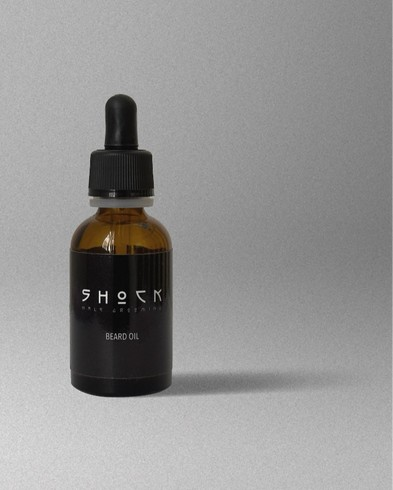
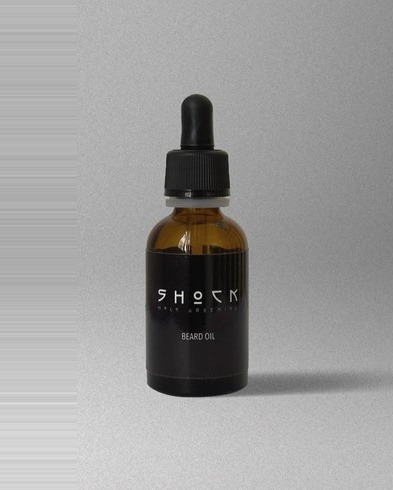
Centra orizzontalmente i prodotti nella sezione SHOCK
Le foto di beard-oil, curl-design e powder avevano il prodotto
spostato a sinistra (centro orizzontale ~0.31). Ricentrate tutte le
immagini sul centro, riempiendo lo spazio con lo sfondo grigio
esistente per evitare bordi bianchi. Aggiornato cache-buster a v=3.

https://claude.ai/code/session_01XW7sYUd67nkV3eiHzqeqDH

diff --git a/index.html b/index.html
@@ -219,22 +219,22 @@
       </div>
       <div class="product-grid">
         <a class="product-card reveal" href="https://shockmalegrooming.com/products/shock-beard-oil" target="_blank" rel="noopener">
-          <img class="product-img" src="assets/products/beard-oil.jpg?v=2" alt="SHOCK Beard Oil" loading="lazy" /><h3>Beard Oil</h3><p>Olio nutriente per barba</p><span class="product-cta">Acquista · €19 →</span>
+          <img class="product-img" src="assets/products/beard-oil.jpg?v=3" alt="SHOCK Beard Oil" loading="lazy" /><h3>Beard Oil</h3><p>Olio nutriente per barba</p><span class="product-cta">Acquista · €19 →</span>
         </a>
         <a class="product-card reveal" href="https://shockmalegrooming.com/products/shock%E2%84%A2-matt-paste" target="_blank" rel="noopener">
-          <img class="product-img" src="assets/products/matt-paste.jpg?v=2" alt="SHOCK Matt Paste" loading="lazy" /><h3>Matt Paste</h3><p>Pasta opaca, tenuta media</p><span class="product-cta">Acquista · €19 →</span>
+          <img class="product-img" src="assets/products/matt-paste.jpg?v=3" alt="SHOCK Matt Paste" loading="lazy" /><h3>Matt Paste</h3><p>Pasta opaca, tenuta media</p><span class="product-cta">Acquista · €19 →</span>
         </a>
         <a class="product-card reveal" href="https://shockmalegrooming.com/products/shock%E2%84%A2-shine-wax" target="_blank" rel="noopener">
-          <img class="product-img" src="assets/products/shine-wax.jpg?v=2" alt="SHOCK Shine Wax" loading="lazy" /><h3>Shine Wax</h3><p>Cera modellante effetto lucido</p><span class="product-cta">Acquista · €20 →</span>
+          <img class="product-img" src="assets/products/shine-wax.jpg?v=3" alt="SHOCK Shine Wax" loading="lazy" /><h3>Shine Wax</h3><p>Cera modellante effetto lucido</p><span class="product-cta">Acquista · €20 →</span>
         </a>
         <a class="product-card reveal" href="https://shockmalegrooming.com/products/copia-del-shock%E2%84%A2-sea-salt-spray" target="_blank" rel="noopener">
-          <img class="product-img" src="assets/products/powder.jpg?v=2" alt="SHOCK Powder" loading="lazy" /><h3>Powder</h3><p>Polvere volumizzante texturizzante</p><span class="product-cta">Acquista · €22 →</span>
+          <img class="product-img" src="assets/products/powder.jpg?v=3" alt="SHOCK Powder" loading="lazy" /><h3>Powder</h3><p>Polvere volumizzante texturizzante</p><span class="product-cta">Acquista · €22 →</span>
         </a>
         <a class="product-card reveal" href="https://shockmalegrooming.com/products/shock%E2%84%A2-sea-salt-spray" target="_blank" rel="noopener">
-          <img class="product-img" src="assets/products/sea-salt-spray.jpg?v=2" alt="SHOCK Sea Salt Spray" loading="lazy" /><h3>Sea Salt Spray</h3><p>Texture e volume, effetto mare</p><span class="product-cta">Acquista · €21 →</span>
+          <img class="product-img" src="assets/products/sea-salt-spray.jpg?v=3" alt="SHOCK Sea Salt Spray" loading="lazy" /><h3>Sea Salt Spray</h3><p>Texture e volume, effetto mare</p><span class="product-cta">Acquista · €21 →</span>
         </a>
         <a class="product-card reveal" href="https://shockmalegrooming.com/products/curl-design" target="_blank" rel="noopener">
-          <img class="product-img" src="assets/products/curl-design.jpg?v=2" alt="SHOCK Curl Design" loading="lazy" /><h3>Curl Design</h3><p>Definizione per capelli ricci</p><span class="product-cta">Acquista · €20 →</span>
+          <img class="product-img" src="assets/products/curl-design.jpg?v=3" alt="SHOCK Curl Design" loading="lazy" /><h3>Curl Design</h3><p>Definizione per capelli ricci</p><span class="product-cta">Acquista · €20 →</span>
         </a>
       </div>
       <div class="center reveal"><a href="https://shockmalegrooming.com/collections/all" target="_blank" rel="noopener" class="btn btn-ghost">Tutti i prodotti SHOCK</a></div>
